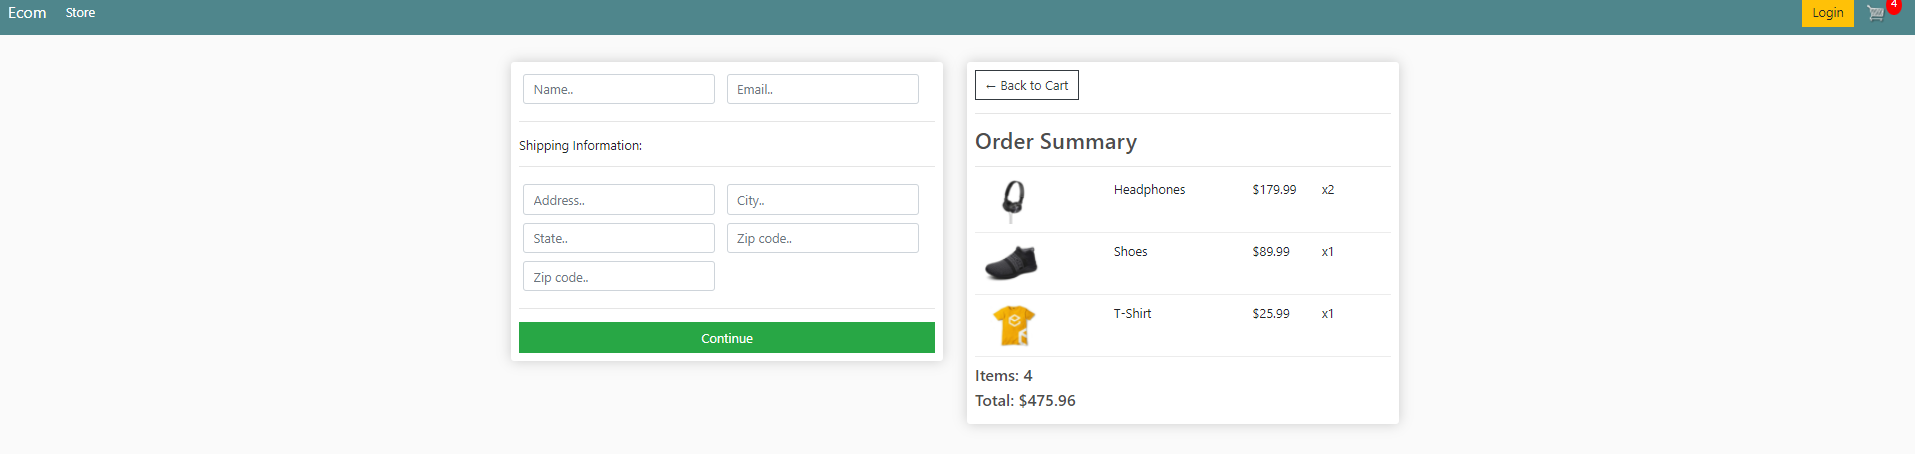
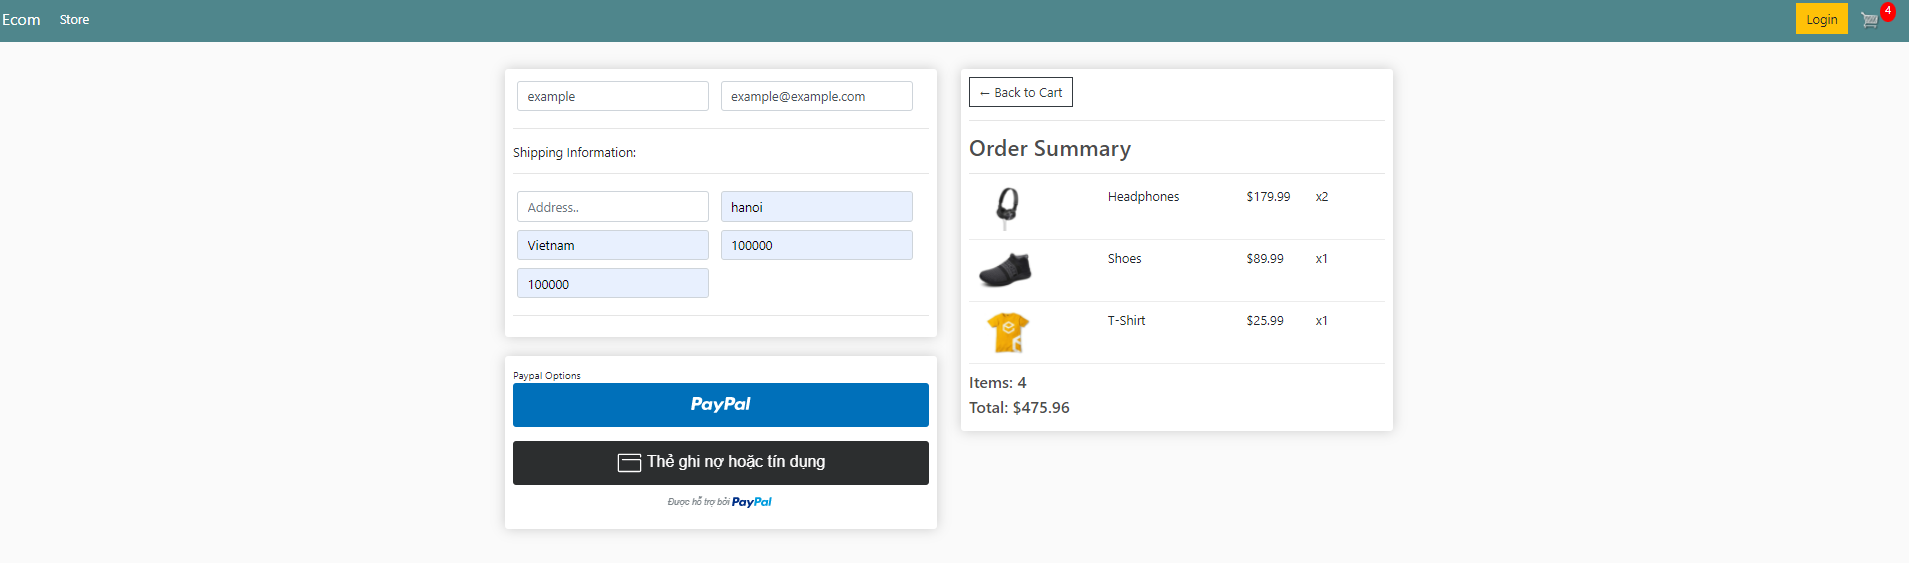
add paypal and credit card payment feature

diff --git a/static/js/payment.js b/static/js/payment.js
@@ -23,9 +23,9 @@ console.log(total)
 	    	document.getElementById('payment-info').classList.remove("hidden");
 	    })
 
-	    document.getElementById('make-payment').addEventListener('click', function(e){
+	    /*document.getElementById('make-payment').addEventListener('click', function(e){
 	    	submitFormData()
-	    })
+	    })*/
 
 	    function submitFormData(){
 

diff --git a/store/templates/store/checkout.html b/store/templates/store/checkout.html
@@ -69,7 +69,7 @@
 		</div>
 	</div>
 
-	<script src="https://www.paypal.com/sdk/js?client-id=YOUR-CLIENT-ID&currency=USD&disable-funding=credit"></script>
+	<script src="https://www.paypal.com/sdk/js?client-id=sb&currency=USD&disable-funding=credit"></script>
 
 	<script>
 		var total = '{{order.get_cart_total}}'
